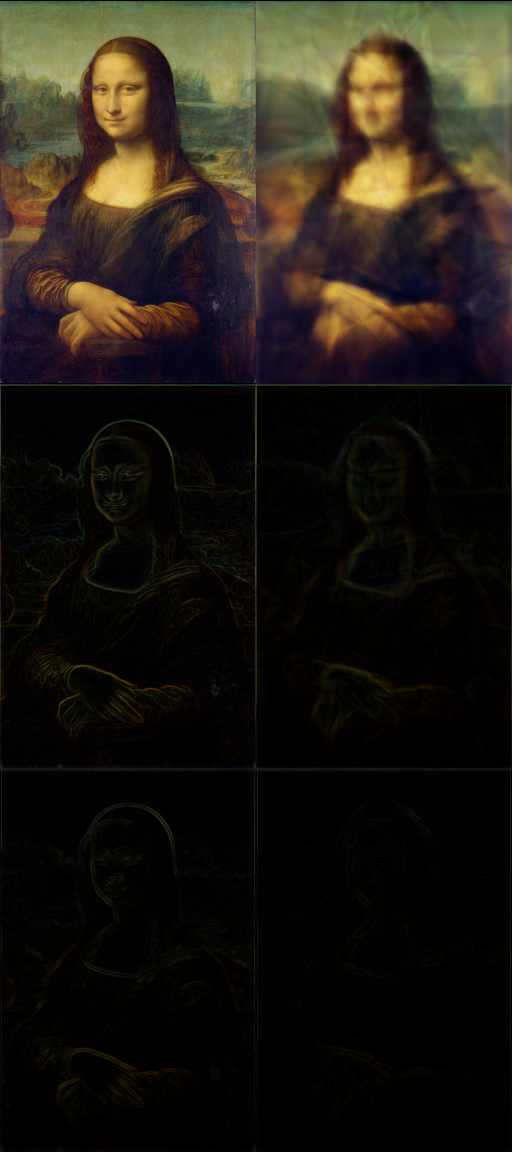
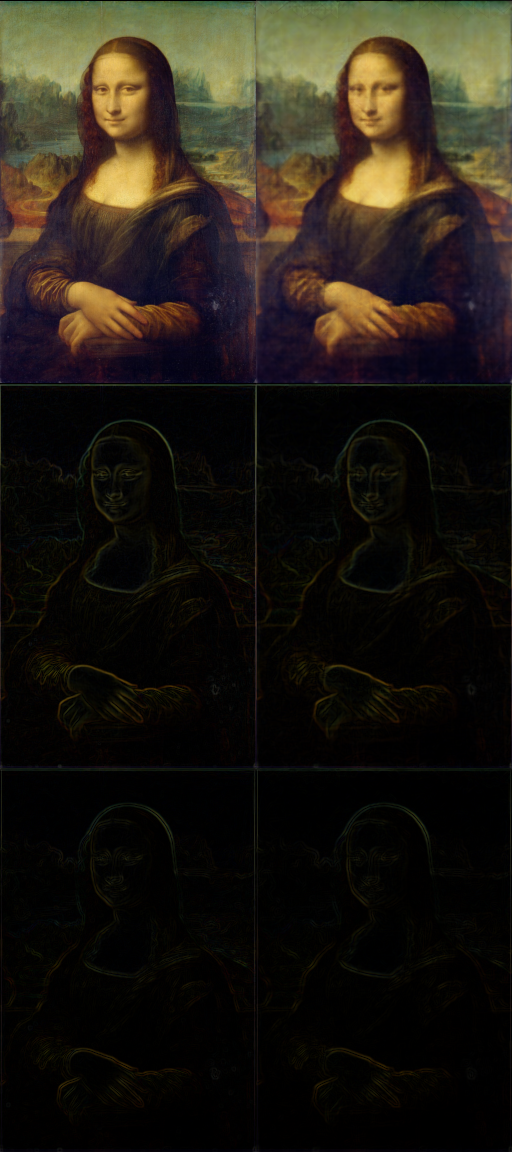
QOL

diff --git a/point_splatting/reconstruct.py b/point_splatting/reconstruct.py
@@ -10,13 +10,19 @@ from torchvision.io import write_png, write_jpeg
 import shutil
 
 
-device = torch.device("mps")
+if torch.cuda.is_available():
+    device = torch.device("cuda")
+elif torch.backends.mps.is_available():
+    device = torch.device("mps")
+else:
+    device = torch.device("cpu")
 
 CANVAS_HEIGHT_PX = 384
 CANVAS_WIDTH_PX = 256
-NUM_POINTS = 128
+NUM_POINTS = 2048
 NUM_ITERATIONS = 8192
 IMAGE = "monalisa.jpg"  # Path to the target image
+TIMELAPSE = True
 
 # Ensure the output directory exists
 output_dir = Path("outputs")
@@ -84,44 +90,44 @@ for i in pbar:
         steps_since_last_save = 0
         last_saved_loss = total_loss.item()
 
-        top = torch.cat(
-            (
-                float_to_uint8(target_image),
-                float_to_uint8(canvas),
-            ),
-            dim=2,
-        )
-        center = torch.cat(
-            (
-                float_to_uint8(target_grad),
-                float_to_uint8(canvas_grad),
-            ),
-            dim=2,
-        )
-        bottom = torch.cat(
-            (
-                float_to_uint8(target_double_grad),
-                float_to_uint8(canvas_double_grad),
-            ),
-            dim=2,
-        )
-        # right = torch.cat(
-        #     (
-        #         float_to_uint8(torch.abs(target_image - canvas)),
-        #         float_to_uint8(
-        #             torch.abs(target_grad - canvas_grad),
-        #         ),
-        #         float_to_uint8(
-        #             torch.abs(target_double_grad - canvas_double_grad),
-        #         ),
-        #     ),
-        #     dim=1,
-        # )
-        combined = torch.cat((top, center, bottom), dim=1)
+        if TIMELAPSE:
+            top = torch.cat(
+                (
+                    float_to_uint8(target_image),
+                    float_to_uint8(canvas),
+                ),
+                dim=2,
+            )
+            center = torch.cat(
+                (
+                    float_to_uint8(target_grad),
+                    float_to_uint8(canvas_grad),
+                ),
+                dim=2,
+            )
+            bottom = torch.cat(
+                (
+                    float_to_uint8(target_double_grad),
+                    float_to_uint8(canvas_double_grad),
+                ),
+                dim=2,
+            )
+            # right = torch.cat(
+            #     (
+            #         float_to_uint8(torch.abs(target_image - canvas)),
+            #         float_to_uint8(
+            #             torch.abs(target_grad - canvas_grad),
+            #         ),
+            #         float_to_uint8(
+            #             torch.abs(target_double_grad - canvas_double_grad),
+            #         ),
+            #     ),
+            #     dim=1,
+            # )
+            combined = torch.cat((top, center, bottom), dim=1)
 
-        write_png(top, f"outputs/{improvements:05d}.png")
-        write_png(combined, f"latest.png")
-        write_png(float_to_uint8(canvas), f"canvas_latest.png")
+            write_jpeg(top, f"outputs/{improvements:05d}.jpg")
+            write_png(combined, f"latest.png")
 
     else:
         steps_since_last_save += 1

diff --git a/point_splatting/point_splatting.py b/point_splatting/point_splatting.py
@@ -45,6 +45,7 @@ class Points(nn.Module):
             torch.zeros(1, 1, num_points, 3, device=self.device, dtype=torch.float32)
         )  # Values to add or subtract from each channel of the canvas.
 
+    @torch.compile(disable=not torch.cuda.is_available())
     def render(self, canvas_height_px: int, canvas_width_px: int) -> Tensor:
         """
         Render points on a canvas.
